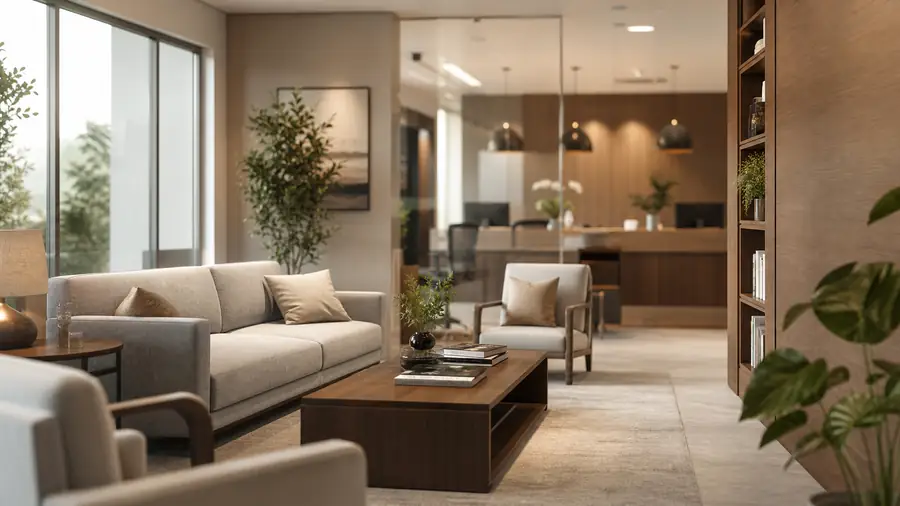
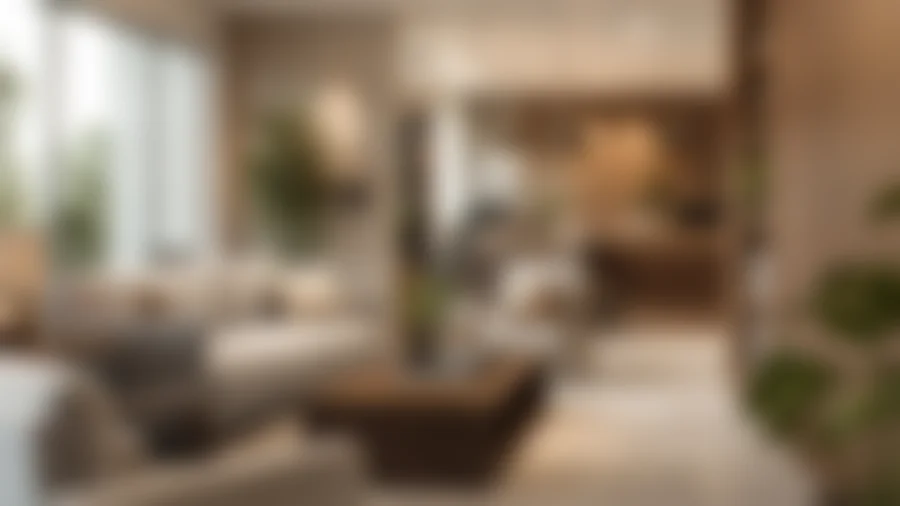
Glass oscuro 58.90: pulido en curso (fondos optimizados, ajustes de index y QA) — trabajo parcial, NO publicado
Guardado tras reinicio del contenedor que detuvo al agente de pulido/prueba de velocidad.

Claude-Session: https://claude.ai/code/session_01XsqePqNsr899Mjtsv3s8DJ

diff --git a/index.html b/index.html
@@ -3146,7 +3146,7 @@ html.tema-glass-oscuro{
   --tgo-tx:#F8FAFC;--tgo-tx2:#D6D3D1;--tgo-tx3:#A8A29E;
   --tgo-glass:rgba(38,34,32,.62);--tgo-glass-2:rgba(255,255,255,.07);--tgo-line:rgba(255,255,255,.08);
   --tgo-solid:#26221F;--tgo-solid-2:#1C1917;
-  --tgo-card-shadow:0 10px 30px -12px rgba(20,14,10,.45);--tgo-panel-shadow:0 30px 60px -30px rgba(20,14,10,.65);
+  --tgo-card-shadow:0 8px 22px -12px rgba(20,14,10,.40);--tgo-panel-shadow:0 24px 48px -30px rgba(20,14,10,.55);
   --tgo-blur:blur(26px) saturate(1.2);
   /* acento único del sistema → azul NEXUS */
   --c1:#2563EB;--c2:#1D4ED8;--c1a:rgba(37,99,235,.08);--c2a:rgba(37,99,235,.08);
@@ -3166,10 +3166,13 @@ html.tema-glass-oscuro::before{
     radial-gradient(120% 50% at 50% 110%,rgba(16,12,10,.80),transparent 72%),
     linear-gradient(180deg,#5A4C42 0%,#3A312B 46%,#221C18 100%);
 }
+/* La foto viene YA desenfocada en el archivo (desenfoque 18 px + saturación 1.05 horneados con Pillow, 17 KB / 9 KB):
+   sin filter en CSS, la capa fija no se vuelve a desenfocar en cada cuadro. Capas propias (will-change) para que el
+   desplazamiento no repinte el fondo. */
+html.tema-glass-oscuro::before{will-change:transform}
 html.tema-glass-oscuro::after{
-  content:'';position:fixed;inset:-48px;z-index:-1;pointer-events:none;opacity:0;transition:opacity .6s ease;
+  content:'';position:fixed;inset:0;z-index:-1;pointer-events:none;opacity:0;transition:opacity .6s ease;will-change:opacity;
   background:linear-gradient(180deg,rgba(28,22,18,.48) 0%,rgba(22,17,14,.62) 55%,rgba(16,12,10,.74) 100%),url(assets/fondo-oficina.webp) center/cover no-repeat;
-  -webkit-filter:blur(18px) saturate(1.05);filter:blur(18px) saturate(1.05);
 }
 @media (max-width:768px){html.tema-glass-oscuro::after{background:linear-gradient(180deg,rgba(28,22,18,.52) 0%,rgba(22,17,14,.64) 55%,rgba(16,12,10,.76) 100%),url(assets/fondo-oficina-movil.webp) center/cover no-repeat}}
 html.tema-glass-oscuro.tgo-foto::after{opacity:1}
@@ -3250,7 +3253,7 @@ html.tema-glass-oscuro body nav#sbEl.sb .spring-glow{display:none!important}
     position:fixed!important;left:100px!important;top:auto!important;bottom:12px!important;width:256px!important;z-index:1100!important;
     max-height:calc(100vh - 24px)!important;max-height:calc(100dvh - 24px)!important;overflow-y:auto!important;overflow-x:hidden!important;
     padding:40px 8px 8px!important;border-radius:20px!important;background:linear-gradient(180deg,#322C28,#26211E)!important;border:1px solid rgba(255,255,255,.10)!important;
-    box-shadow:0 30px 60px -24px rgba(0,0,0,.7)!important;
+    box-shadow:0 20px 40px -24px rgba(0,0,0,.6)!important;
     transition:opacity .15s ease,visibility .15s ease!important;scrollbar-width:thin}
   html.tema-glass-oscuro body nav#sbEl.sb #sbContab::before,html.tema-glass-oscuro body nav#sbEl.sb #sbConfig::before{
     position:absolute;top:14px;left:18px;font-size:12px;font-weight:700;letter-spacing:.06em;text-transform:uppercase;color:#A8A29E}
@@ -3295,8 +3298,10 @@ html.tema-glass-oscuro body .tnav .tn-b:focus-visible,html.tema-glass-oscuro bod
 html.tema-glass-oscuro body .tnav .pttl{color:#F8FAFC!important}
 @media (min-width:769px){
   html.tema-glass-oscuro body .main{position:relative!important;isolation:isolate;margin:12px 12px 12px 12px!important;border-radius:24px!important;overflow:hidden!important}
+  /* Panel principal: tinte cálido SIN backdrop-filter (el fondo ya viene desenfocado; desenfocar en vivo un panel de
+     pantalla completa era lo más caro al desplazar). */
   html.tema-glass-oscuro body .main::before{content:'';position:absolute;inset:0;z-index:-1;pointer-events:none;border-radius:24px;border:1px solid var(--tgo-line);
-    background:var(--tgo-glass);box-shadow:var(--tgo-panel-shadow);-webkit-backdrop-filter:var(--tgo-blur);backdrop-filter:var(--tgo-blur)}
+    background:rgba(38,34,32,.66);box-shadow:0 24px 48px -30px rgba(20,14,10,.55)}
   html.tema-glass-oscuro body .tnav{height:auto!important;min-height:72px!important;margin:0!important;padding:18px 20px 10px 26px!important;
     background:transparent!important;border:0!important;border-radius:0!important;box-shadow:none!important;-webkit-backdrop-filter:none!important;backdrop-filter:none!important;gap:12px!important}
   html.tema-glass-oscuro body .tnav .tn-tog{display:none!important} /* el riel no se colapsa: no hay nada que abrir */
@@ -3336,7 +3341,9 @@ html.tema-glass-oscuro .bc1{background:var(--tgo-blue)!important;border-color:va
 html.tema-glass-oscuro .bc1:hover{background:var(--tgo-blue-d)!important;border-color:var(--tgo-blue-d)!important}
 
 /* ── Inicio glass: la escena global reemplaza la sombra propia del #nxIG ── */
-html.tema-glass-oscuro.nx-ig #nxIG{background:transparent!important;box-shadow:none!important;--ig-glass:rgba(38,34,32,.62);--ig-line:rgba(255,255,255,.08)}
+html.tema-glass-oscuro.nx-ig #nxIG{background:transparent!important;box-shadow:none!important;--ig-glass:rgba(38,34,32,.66);--ig-line:rgba(255,255,255,.08)}
+/* sin desenfoque en vivo en los paneles del Inicio: el fondo ya viene desenfocado */
+html.tema-glass-oscuro.nx-ig #nxIG .nxIG-glass{-webkit-backdrop-filter:none!important;backdrop-filter:none!important}
 @media (min-width:769px){
   /* dentro del panel principal: el panel izquierdo del Inicio se funde con él; su buscador es el de la cabecera (una sola vez) */
   html.tema-glass-oscuro.nx-ig #nxIG .nxIG-main.nxIG-glass{background:transparent!important;border-color:transparent!important;box-shadow:none!important;-webkit-backdrop-filter:none!important;backdrop-filter:none!important;padding-top:4px}
@@ -3401,6 +3408,95 @@ html.tema-glass-oscuro #cnt #v-crm button.primary,html.tema-glass-oscuro .nxCrmB
 html.tema-glass-oscuro .cfg-indicator{background:var(--tgo-blue)!important;background-image:none!important}
 html.tema-glass-oscuro .cfg-tab.active-tab i{background:var(--tgo-blue)!important;background-image:none!important;color:#fff!important}
 html.tema-glass-oscuro .cfg-tab.active-tab span{color:var(--tgo-blue-d)!important}
+
+/* ═══ 58.91 — PASADA DE AJUSTES (auditoría de todas las pantallas, pestañas y modales a 390/1280) ═══ */
+/* Contraste AA sobre blanco: variantes oscuras de los colores semánticos (mismo tono, sin cambiar diseño) */
+html.tema-glass-oscuro .nxSf{--sf-tx3:#5B6576;--sf-err:#DC2626;--sf-ok-d:#047857}
+html.tema-glass-oscuro body #sbEl .sb-av{background:var(--tgo-blue)!important;background-image:none!important;color:#fff!important}
+html.tema-glass-oscuro .notif-badge{background:#DC2626!important}
+html.tema-glass-oscuro.nx-ig #nxIG #nxIGav{background:var(--tgo-blue)!important;background-image:none!important;color:#fff!important}
+html.tema-glass-oscuro.nx-ig #nxIG .nxIG-days .o{color:#A39B96}
+html.tema-glass-oscuro.nx-ig #nxIG .nxIG-ax span{color:#5B6576}
+html.tema-glass-oscuro.nx-ig #nxIG .nxIG-pc.hl{background:var(--tgo-blue-d)!important}html.tema-glass-oscuro.nx-ig #nxIG .nxIG-pc.hl p{color:#EFF6FF}
+html.tema-glass-oscuro.nx-ig #nxIG .nxIG-pc.hl .nxIG-tag{background:#1E40AF!important;color:#fff!important}
+html.tema-glass-oscuro .ncf-badge,html.tema-glass-oscuro .nxCobCard .cbBdg.parcial,html.tema-glass-oscuro .nxSL-section-count:not(.nxSL-count-blue){color:#92400E!important}
+html.tema-glass-oscuro .nxCobCard .cbV.gray{color:#64748B}
+html.tema-glass-oscuro .nxCobCard .cbBtn.cobrar,html.tema-glass-oscuro #cnt .btn.bc5,html.tema-glass-oscuro #cnt .btn.bsm.bc5{background:#15803D!important;border-color:#15803D!important;color:#fff!important}
+html.tema-glass-oscuro .nxAvBtn.wa{background:#15803D!important;background-image:none!important}
+html.tema-glass-oscuro .nxAvAv{background:var(--tgo-blue)!important}
+html.tema-glass-oscuro #cnt .nxft-tab.nxft-add,html.tema-glass-oscuro #cnt .nxSL-action-green{background:#047857!important;background-image:none!important;color:#fff!important}
+html.tema-glass-oscuro #cnt .sf-btn.ok,html.tema-glass-oscuro #cnt .sf-btn.ok i{color:#047857!important}
+html.tema-glass-oscuro #v-cliente360 .c360-rinfo span{color:#475569}
+html.tema-glass-oscuro #v-cliente360 .c360-head b,html.tema-glass-oscuro #v-cliente360 .nxSf{--sf-err:#DC2626}
+html.tema-glass-oscuro #cnt .nxFP-dlbl,html.tema-glass-oscuro #cnt .nxFP-dsub,html.tema-glass-oscuro #cnt .nxFP-topSub,html.tema-glass-oscuro #cnt .nxFP-listHead span{color:#5B6576!important}
+html.tema-glass-oscuro #cnt .nxAppSecT{color:#5B6576!important}
+/* colores escritos a mano (style=) dentro de superficies blancas → su variante AA */
+html.tema-glass-oscuro :is(#cnt,.overlay) :is([style*="color:#059669"],[style*="color: rgb(5, 150, 105)"],[style*="color: #059669"],[style*="color: rgb(5, 150, 105)"],[style*="color:#10b981"],[style*="color: rgb(16, 185, 129)"],[style*="color:#10B981"],[style*="color: rgb(16, 185, 129)"],[style*="color:#00e5c7"],[style*="color: rgb(0, 229, 199)"],[style*="color:#16a34a"],[style*="color: rgb(22, 163, 74)"]){color:#047857!important}
+html.tema-glass-oscuro :is(.nc,.modal,.tw,.kpi,.nxSf .sf-kpi) :is([style*="color:#d97706"],[style*="color: rgb(217, 119, 6)"],[style*="color: #d97706"],[style*="color: rgb(217, 119, 6)"],[style*="color:#f59e0b"],[style*="color: rgb(245, 158, 11)"],[style*="color:#fbbf24"],[style*="color: rgb(251, 191, 36)"],[style*="color:#f97316"],[style*="color: rgb(249, 115, 22)"]){color:#B45309!important}
+html.tema-glass-oscuro :is(#cnt,.overlay) :is([style*="color:#ef4444"],[style*="color: rgb(239, 68, 68)"],[style*="color:#f43f5e"],[style*="color: rgb(244, 63, 94)"]){color:#DC2626!important}
+html.tema-glass-oscuro :is(.nc,.modal,.overlay,.tw,.kpi,.nxSf .sf-kpi) :is([style*="color:#94a3b8"],[style*="color: rgb(148, 163, 184)"],[style*="color: #94a3b8"],[style*="color: rgb(148, 163, 184)"],[style*="color:#94A3B8"],[style*="color: rgb(148, 163, 184)"],[style*="color:#98a2b3"],[style*="color: rgb(152, 162, 179)"]){color:#64748B!important}
+html.tema-glass-oscuro :is(.nc,.modal,.tw,.kpi) :is([style*="color:#8b5cf6"],[style*="color: rgb(139, 92, 246)"],[style*="color:#7c3aed"],[style*="color: rgb(124, 58, 237)"],[style*="color:#6d28d9"],[style*="color: rgb(109, 40, 217)"]){color:var(--tgo-blue-d)!important}
+html.tema-glass-oscuro :is(.nc,.modal,.tw,.kpi) [style*="color:#0891b2"],[style*="color: rgb(8, 145, 178)"]{color:#0E7490!important}
+/* restos morados/navy de temas anteriores → acento azul único */
+html.tema-glass-oscuro .cs-h{background:linear-gradient(135deg,#1D4ED8,#2563EB)!important}
+html.tema-glass-oscuro .nxnov-filter.on{border-color:rgba(37,99,235,.2)!important;background:rgba(37,99,235,.08)!important;color:#1D4ED8!important}
+html.tema-glass-oscuro #cnt .btn.bc2{background:rgba(37,99,235,.08)!important;border-color:rgba(37,99,235,.3)!important;color:#1D4ED8!important}
+html.tema-glass-oscuro #cnt .nxCrmLink:not(.primary):not([style*="color:#fff"]):not([style*="color: rgb(255, 255, 255)"]){color:#1D4ED8!important}
+html.tema-glass-oscuro .nxCrmLink:is([style*="color:#fff"],[style*="color: rgb(255, 255, 255)"]){background:var(--tgo-blue)!important;background-image:none!important;color:#fff!important}
+html.tema-glass-oscuro #cnt .nxCrmLink.primary,html.tema-glass-oscuro .nxCrmLink.primary{background:var(--tgo-blue)!important;background-image:none!important;color:#fff!important;border-color:var(--tgo-blue)!important}
+html.tema-glass-oscuro .badge.bC2{color:#1D4ED8}
+/* Avisos (Facturas) y encabezados sueltos que caen sobre la escena */
+html.tema-glass-oscuro #cnt #v-facturas > .ch .ct,html.tema-glass-oscuro #cnt #v-facturas > div > .ch .ct,html.tema-glass-oscuro #cnt .view > .ch .ct{color:#F8FAFC!important}
+html.tema-glass-oscuro #cnt #v-facturas > .ch .ct-s,html.tema-glass-oscuro #cnt #v-facturas > div > .ch .ct-s,html.tema-glass-oscuro #cnt .view > .ch .ct-s{color:#D6D3D1!important}
+/* Cliente 360: tablas y vacíos de las pestañas quedaban sobre la escena (texto oscuro sobre oscuro) */
+html.tema-glass-oscuro #v-cliente360 .c360-tbl{background:#fff;border-radius:14px;overflow:hidden;box-shadow:var(--tgo-card-shadow)}
+html.tema-glass-oscuro #v-cliente360 .c360-tbl th{color:#5B6576;background:#F8FAFC}
+html.tema-glass-oscuro #v-cliente360 .c360-tbl td{color:#1E293B}
+html.tema-glass-oscuro #v-cliente360 .c360-empty-tab{color:#E7E5E4}
+/* textos cortados con «…» donde sí hay espacio: 2 líneas (perfil del Inicio, títulos de la agenda, prospectos, KPI de Cliente 360) */
+html.tema-glass-oscuro.nx-ig #nxIG .nxIG-prof small{white-space:normal!important;display:-webkit-box!important;-webkit-line-clamp:2;-webkit-box-orient:vertical;overflow:hidden}
+html.tema-glass-oscuro.nx-ig #nxIG .nxIG-it b{white-space:normal!important;display:-webkit-box!important;-webkit-line-clamp:2;-webkit-box-orient:vertical;overflow:hidden;line-height:1.25}
+html.tema-glass-oscuro.nx-ig #nxIG .nxIG-ks{white-space:normal!important;display:-webkit-box!important;-webkit-line-clamp:2;-webkit-box-orient:vertical;overflow:hidden}
+html.tema-glass-oscuro #cnt #v-crm .nxProsMeta{white-space:normal!important;display:-webkit-box!important;-webkit-line-clamp:2;-webkit-box-orient:vertical;overflow:hidden}
+html.tema-glass-oscuro #v-cliente360 .nxSf .sf-kpi .lb,html.tema-glass-oscuro #v-cliente360 .nxSf .sf-kpi .sub,html.tema-glass-oscuro #v-cliente360 .sf-kpi .lb,html.tema-glass-oscuro #v-cliente360 .sf-kpi .sub{white-space:normal!important;overflow:visible!important}
+/* foco visible y consistente (teclado) en todo el contenido; sin anillo al hacer clic */
+html.tema-glass-oscuro #cnt :is(button,[role=button],a,.btn,.nxft-tab,input,select,textarea):focus-visible,html.tema-glass-oscuro .overlay :is(button,[role=button],a,.btn,input,select,textarea):focus-visible{outline:2px solid #2563EB!important;outline-offset:2px!important}
+/* selects nativos: fondo y texto explícitos (Windows modo oscuro) */
+html.tema-glass-oscuro #cnt select,html.tema-glass-oscuro .overlay select{background-color:#fff;color:#0F172A}
+/* barras de desplazamiento discretas sobre el cristal */
+html.tema-glass-oscuro body .content{scrollbar-color:rgba(255,255,255,.22) transparent;scrollbar-width:thin}
+html.tema-glass-oscuro body .content::-webkit-scrollbar-thumb{background:rgba(255,255,255,.22)!important}
+/* toques sin retraso de doble toque */
+html.tema-glass-oscuro body :is(button,[role=button],.ni,.btn){touch-action:manipulation}
+/* grises de módulos (Novedades, reporte Ciclo 20→20, Préstamos) un paso más oscuros sobre blanco */
+html.tema-glass-oscuro :is(.nxnov-title p,.nxnov-kpi span,.nxnov-seg,.nxnov-filter:not(.on),.nxnov-meta,.nxnov-detail,.nxnov-age,.nxnov-field label,.nxC20Tab:not(.on)){color:#475569!important}
+html.tema-glass-oscuro :is(.nxnov-seg,.nxnov-filter) span{color:inherit}
+html.tema-glass-oscuro #cnt :is(.nxFP-navItem:not(.on):not(.active),.nxFP-sideBack,.nxFP-side span){color:#475569!important}
+html.tema-glass-oscuro #cnt #v-prestamos p{color:#475569}
+html.tema-glass-oscuro .nxSf .fc-av{background:linear-gradient(135deg,#DC2626,#B91C1C)!important}
+html.tema-glass-oscuro #cnt .nxOpsDue.bad{color:#B91C1C!important}
+html.tema-glass-oscuro .modal .badge.bC4,html.tema-glass-oscuro #cnt .badge.bC4{color:#B45309}
+html.tema-glass-oscuro .modal .btn.bc4,html.tema-glass-oscuro .modal .btn.bc4 i{color:#B45309!important}
+html.tema-glass-oscuro .modal [style*="color:#94a3b8"],[style*="color: rgb(148, 163, 184)"],html.tema-glass-oscuro .modal [style*="color: #94a3b8"],[style*="color: rgb(148, 163, 184)"]{color:#64748B!important}
+html.tema-glass-oscuro :is(.nc,.modal,.tw,.kpi) :is([style*="color:#fff"],[style*="color: #fff"],[style*="color:#ffffff"],[style*="color: rgb(255, 255, 255)"])[style*="background:#f59e0b"]{background:#B45309!important}
+html.tema-glass-oscuro .overlay .btn.bc5{background:#15803D!important;border-color:#15803D!important}
+html.tema-glass-oscuro{--c4:#B45309;--c5:#047857}
+/* Botones con color propio (style=) que el relieve «píldora» de Facturas/Clientes/Pólizas tapaba: el texto blanco quedaba
+   sobre gris (invisible). Recuperan su color, en la variante AA. */
+html.tema-glass-oscuro #cnt .btn:is([style*="color:#fff"],[style*="color: rgb(255, 255, 255)"]):is([style*="#059669"],[style*="rgb(5, 150, 105)"],[style*="#10b981"],[style*="rgb(16, 185, 129)"],[style*="#16a34a"],[style*="rgb(22, 163, 74)"],[style*="#25D366"],[style*="rgb(37, 211, 102)"],[style*="#25d366"],[style*="rgb(37, 211, 102)"],[style*="#128C7E"],[style*="rgb(18, 140, 126)"]){background:#15803D!important;background-image:none!important;box-shadow:none!important;color:#fff!important}
+html.tema-glass-oscuro #cnt .btn:is([style*="color:#fff"],[style*="color: rgb(255, 255, 255)"]):is([style*="#2563eb"],[style*="rgb(37, 99, 235)"],[style*="#2563EB"],[style*="rgb(37, 99, 235)"],[style*="#3b82f6"],[style*="rgb(59, 130, 246)"],[style*="#6d28d9"],[style*="rgb(109, 40, 217)"],[style*="#7c3aed"],[style*="rgb(124, 58, 237)"],[style*="#8b5cf6"],[style*="rgb(139, 92, 246)"]){background:var(--tgo-blue)!important;background-image:none!important;box-shadow:none!important;color:#fff!important}
+html.tema-glass-oscuro #cnt .btn:is([style*="color:#fff"],[style*="color: rgb(255, 255, 255)"]):is([style*="#dc2626"],[style*="rgb(220, 38, 38)"],[style*="#ef4444"],[style*="rgb(239, 68, 68)"]){background:#DC2626!important;background-image:none!important;box-shadow:none!important;color:#fff!important}
+html.tema-glass-oscuro #cnt .btn:is([style*="color:#fff"],[style*="color: rgb(255, 255, 255)"]) i{color:#fff!important}
+html.tema-glass-oscuro #cnt .btn.bc4,html.tema-glass-oscuro #cnt .btn.bc4 i{color:#92400E!important}
+/* títulos largos en la cabecera móvil: 2 líneas en vez de «…» */
+@media (max-width:768px){
+  html.tema-glass-oscuro body .tnav #pttl{font-size:15px!important;line-height:1.15!important;white-space:normal!important;display:-webkit-box!important;-webkit-line-clamp:2;-webkit-box-orient:vertical;overflow:hidden}
+  html.tema-glass-oscuro #cnt #v-facturas .nxft-tab{white-space:normal!important;line-height:1.15;text-align:center}
+}
+html.tema-glass-oscuro #cnt :is(.nxFP-hAsl,.nxFP-hAl){color:#5B6576!important}
+/* Buzón (sin tocar parches-whatsapp-*): solo dos rótulos que quedaban por debajo de 3:1 */
+html.tema-glass-oscuro #v-waInbox .nxCrmHomeBadge{color:#047857!important}
+html.tema-glass-oscuro #v-waInbox .nxWaListCount{color:#5B6576!important}
 </style>
 </head>
 <body>
@@ -9883,6 +9979,30 @@ function nxIGPreparar(){
 }
 
 // Serie diaria del ciclo 20→20 con los abonos que rChartCobros ya trajo (sin otra consulta).
+// Punto y etiqueta de la gráfica acumulada del ciclo: i = día del ciclo (0…). Sin argumento válido → último día.
+function nxIGChPunto(i){
+  const ch=_nxIG.ch,dot=document.getElementById('nxIGchDot'),tip=document.getElementById('nxIGchTip'),plot=document.getElementById('nxIGchPlot');
+  if(!ch||!dot||!tip||!plot)return;
+  if(!(ch.max>0)){dot.hidden=true;tip.hidden=true;return;}
+  i=Math.max(0,Math.min(ch.acum.length-1,i|0));
+  const lx=ch.X(i)/6,hp=plot.clientHeight||150,ty=ch.Y(ch.acum[i])/150*hp;
+  dot.style.left=lx+'%';dot.style.top=ty+'px';dot.hidden=false;
+  const del=ch.serie[i]||0;
+  tip.textContent=fmt(ch.acum[i])+' · '+nxIGFechaCorta(nxIGSumaDias(ch.ini,i))+(del>0?' (+'+fmt(del)+')':'');
+  tip.hidden=false;
+  const pw=plot.clientWidth||600,tw=tip.offsetWidth||120,px=lx/100*pw;
+  tip.style.left=Math.max(tw/2,Math.min(pw-tw/2,px))+'px';tip.style.top=(ty-34>=0?ty-34:ty+12)+'px';
+}
+// Mouse o dedo sobre la gráfica: muestra el acumulado y lo cobrado ese día; al salir vuelve al total. Un toque en la
+// gráfica solo muestra la etiqueta (el resto de la tarjeta sigue abriendo el historial de pagos).
+function nxIGChEventos(){
+  const plot=document.getElementById('nxIGchPlot');if(!plot||plot.__nxIGch)return;plot.__nxIGch=1;
+  const idx=(ev)=>{const ch=_nxIG.ch;if(!ch)return -1;const r=plot.getBoundingClientRect();const f=Math.max(0,Math.min(1,(ev.clientX-r.left)/(r.width||1)));return Math.round(f*(ch.N-1));};
+  plot.addEventListener('pointermove',ev=>{const i=idx(ev);if(i>=0)nxIGChPunto(i);});
+  plot.addEventListener('pointerdown',ev=>{const i=idx(ev);if(i>=0)nxIGChPunto(i);});
+  plot.addEventListener('pointerleave',()=>{const ch=_nxIG.ch;if(ch)nxIGChPunto(ch.acum.length-1);});
+  plot.addEventListener('click',ev=>{ev.stopPropagation();});
+}
 function nxIGCiclo(c){
   if(!nxIGOn())return;
   const porDia={},nDia={};
@@ -9902,27 +10022,23 @@ function nxIGCiclo(c){
   const dia=Math.max(0,Math.min(N-1,c.diaActual));
   const serie=[];for(let i=0;i<N;i++)serie.push(porDia[nxIGSumaDias(ini,i)]||0);
   let hasta=dia;serie.forEach((v,i)=>{if(v>0&&i>hasta)hasta=i;});
-  const dib=serie.slice(0,hasta+1),max=Math.max(...dib,0);
+  // 58.91: línea ACUMULADA del ciclo (total corrido día a día): con pocos cobros la diaria se veía en picos. El último
+  // punto = suma de los mismos abonos del ciclo = «cobrado en el ciclo». El monto de cada día va en la etiqueta
+  // (pasar el mouse o tocar la gráfica).
+  const acum=[];serie.slice(0,hasta+1).reduce((s,v)=>{s+=v;acum.push(s);return s;},0);
+  const max=acum.length?acum[acum.length-1]:0;
   const X=i=>i/(N-1)*600,Y=v=>140-(max>0?v/max*120:0);
-  let dPath='M'+X(0).toFixed(1)+' '+Y(dib[0]).toFixed(1);
-  for(let i=1;i<dib.length;i++){const x0=X(i-1),x1=X(i),y0=Y(dib[i-1]),y1=Y(dib[i]),m=(x1-x0)/2;dPath+=` C${(x0+m).toFixed(1)} ${y0.toFixed(1)} ${(x1-m).toFixed(1)} ${y1.toFixed(1)} ${x1.toFixed(1)} ${y1.toFixed(1)}`;}
-  const area=dPath+` L${X(dib.length-1).toFixed(1)} 150 L0 150Z`;
+  let dPath='M'+X(0).toFixed(1)+' '+Y(acum[0]||0).toFixed(1);
+  for(let i=1;i<acum.length;i++){const x0=X(i-1),x1=X(i),y0=Y(acum[i-1]),y1=Y(acum[i]),m=(x1-x0)/2;dPath+=` C${(x0+m).toFixed(1)} ${y0.toFixed(1)} ${(x1-m).toFixed(1)} ${y1.toFixed(1)} ${x1.toFixed(1)} ${y1.toFixed(1)}`;}
+  const area=dPath+` L${X(acum.length-1).toFixed(1)} 150 L0 150Z`;
   nxIGSet('nxIGchG',`<defs><linearGradient id="nxIGgrad" x1="0" x2="0" y1="0" y2="1"><stop offset="0" stop-color="#2563EB" stop-opacity=".18"/><stop offset="1" stop-color="#2563EB" stop-opacity="0"/></linearGradient></defs><path d="${area}" fill="url(#nxIGgrad)"/><path d="${dPath}" fill="none" stroke="#2563EB" stroke-width="3" stroke-linecap="round" stroke-linejoin="round" vector-effect="non-scaling-stroke"/>`);
-  const dot=document.getElementById('nxIGchDot'),tip=document.getElementById('nxIGchTip'),plot=document.getElementById('nxIGchPlot');
-  if(dot&&tip&&plot){
-    if(max>0){
-      const im=dib.indexOf(max),lx=X(im)/6,hp=plot.clientHeight||150,ty=Y(max)/150*hp;
-      dot.style.left=lx+'%';dot.style.top=ty+'px';dot.hidden=false;
-      tip.textContent=fmt(max)+' · '+nxIGFechaCorta(nxIGSumaDias(ini,im));
-      tip.hidden=false;
-      const pw=plot.clientWidth||600,tw=tip.offsetWidth||120,px=lx/100*pw;
-      tip.style.left=Math.max(tw/2,Math.min(pw-tw/2,px))+'px';tip.style.top=(ty-34>=0?ty-34:ty+12)+'px';
-    }else{dot.hidden=true;tip.hidden=true;}
-  }
+  _nxIG.ch={ini,N,serie,acum,max,X,Y};
+  nxIGChPunto(acum.length-1);
+  nxIGChEventos();
   const marcas=[0,Math.round(N/4),Math.round(N/2),Math.round(3*N/4),N];
   nxIGSet('nxIGchAx',marcas.map(i=>`<span>${nxIGFechaCorta(nxIGSumaDias(ini,i))}</span>`).join(''));
   nxIGSet('nxIGchp',`${nxIGFechaCorta(ini)} – ${nxIGFechaCorta(fin)}`);
-  nxIGSet('nxIGchs',max>0?`Lo cobrado cada día del ${nxIGFechaCorta(ini)} al ${nxIGFechaCorta(fin)}`:'Todavía no hay cobros registrados en este ciclo');
+  nxIGSet('nxIGchs',max>0?`Acumulado del ${nxIGFechaCorta(ini)} al ${nxIGFechaCorta(fin)}`:'Todavía no hay cobros registrados en este ciclo');
   nxIGSet('nxIGcyl',escHtml(`Ciclo actual · día ${dia+1} de ${N}`));
   const v1=fmt(c.cobCiclo),v2=fmt(c.antMismoDia);
   nxIGSet('nxIGcy1',v1);nxIGSet('nxIGcy2',v2);
